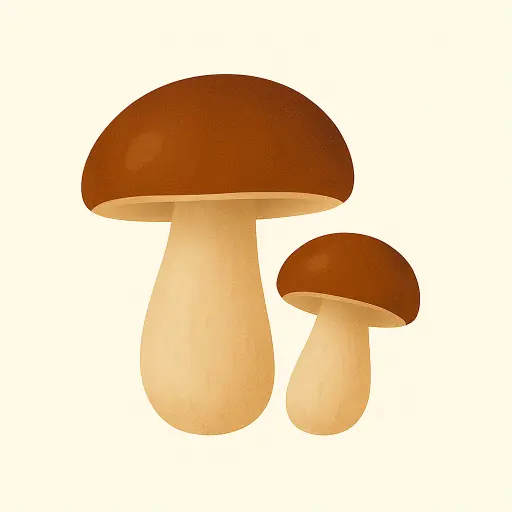
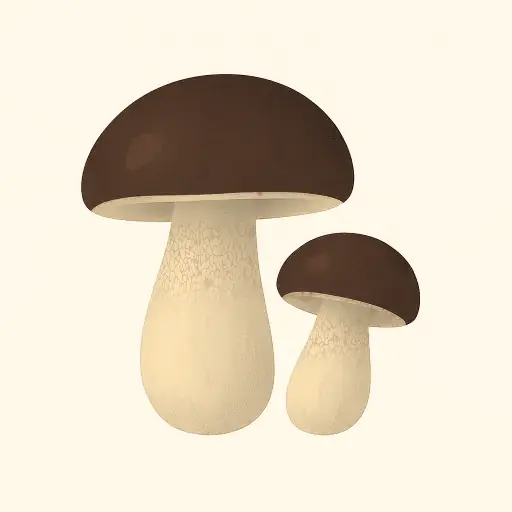
feat(species): illustrate the six split species and record approval
Replace the placeholder images with repaints of the catalog's own porcini
and chanterelle illustrations, so they keep the house style and need no
third-party attribution. Each shows what separates it from its siblings:
cap colour for the boletes, the full-length stem net of B. reticulatus,
the near-smooth underside of C. lateritius, and the brown cap, grey ridges
and yellow stem of Craterellus tubaeformis.

The decision record now notes the scoring parameters as approved on
2026-09-24 and drops the resolved follow-ups.

Changed region(s): [[0.1562, 0.125, 0.8438, 0.875]]

diff --git a/docs/species/2026-09-06-boletus-chanterelle-split.md b/docs/species/2026-09-06-boletus-chanterelle-split.md
@@ -155,8 +155,13 @@ availability moved so little. Worth re-checking if more congeners are added:
 the top-3 figure is what makes a three-candidate list defensible, and it is now
 the metric with the least headroom.
 
-## Follow-up
+## Illustrations
 
-- Species photographs. All six ship with a placeholder copied from `chant` or
-  `mushroom` and carry no `source`/`author`/`license`, because none has been
-  sourced or attributed yet. Replace before this reaches users.
+The six catalog images are repainted from the catalog's own porcini and
+chanterelle illustrations, so they share the house style and carry no
+third-party attribution. Silhouettes and shading are kept; colour and marks
+change to show what separates each from its siblings: the near-black cap of
+_B. aereus_, the wine-red cap of _B. pinophilus_, the full-length stem net of
+_B. reticulatus_, the darker cap top of _C. formosus_, the almost ridge-free
+underside of _C. lateritius_, and the brown cap, grey ridges and yellow stem of
+_Craterellus tubaeformis_.
